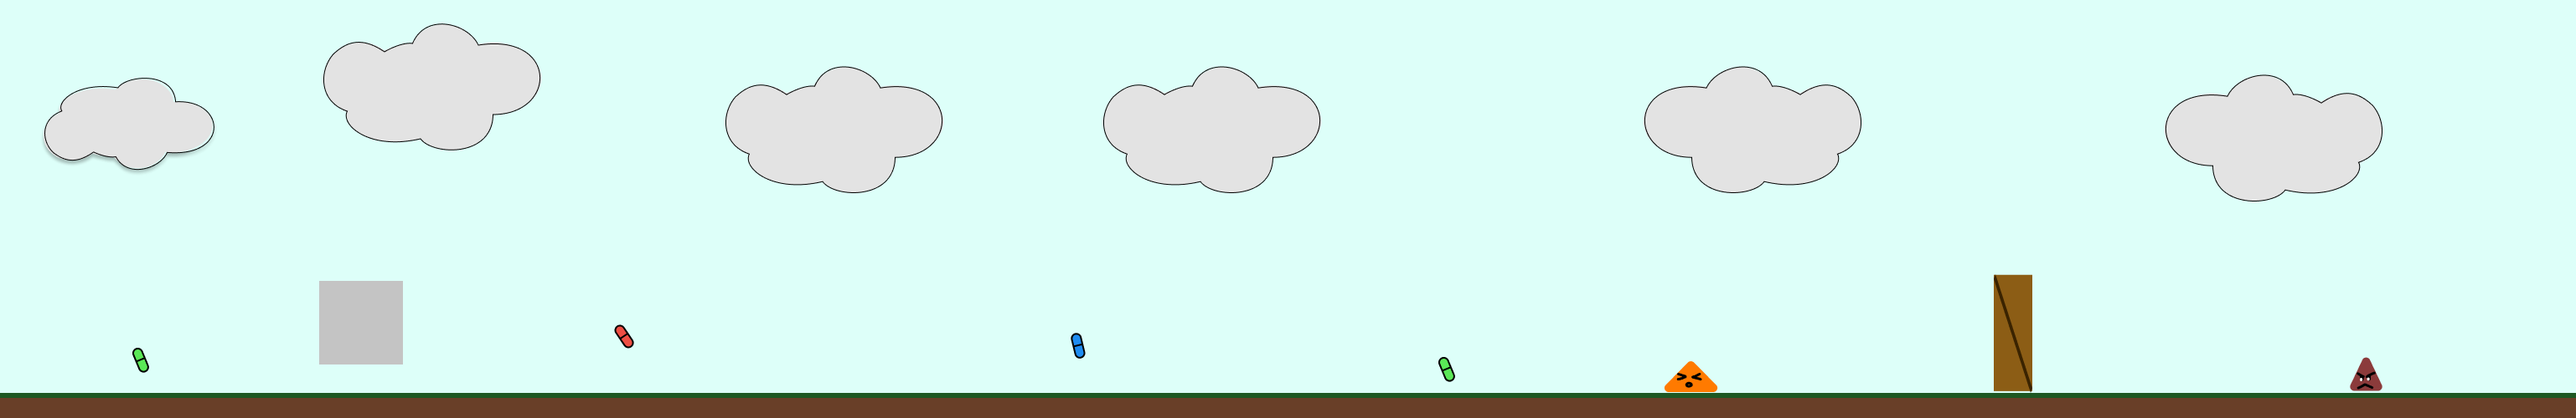
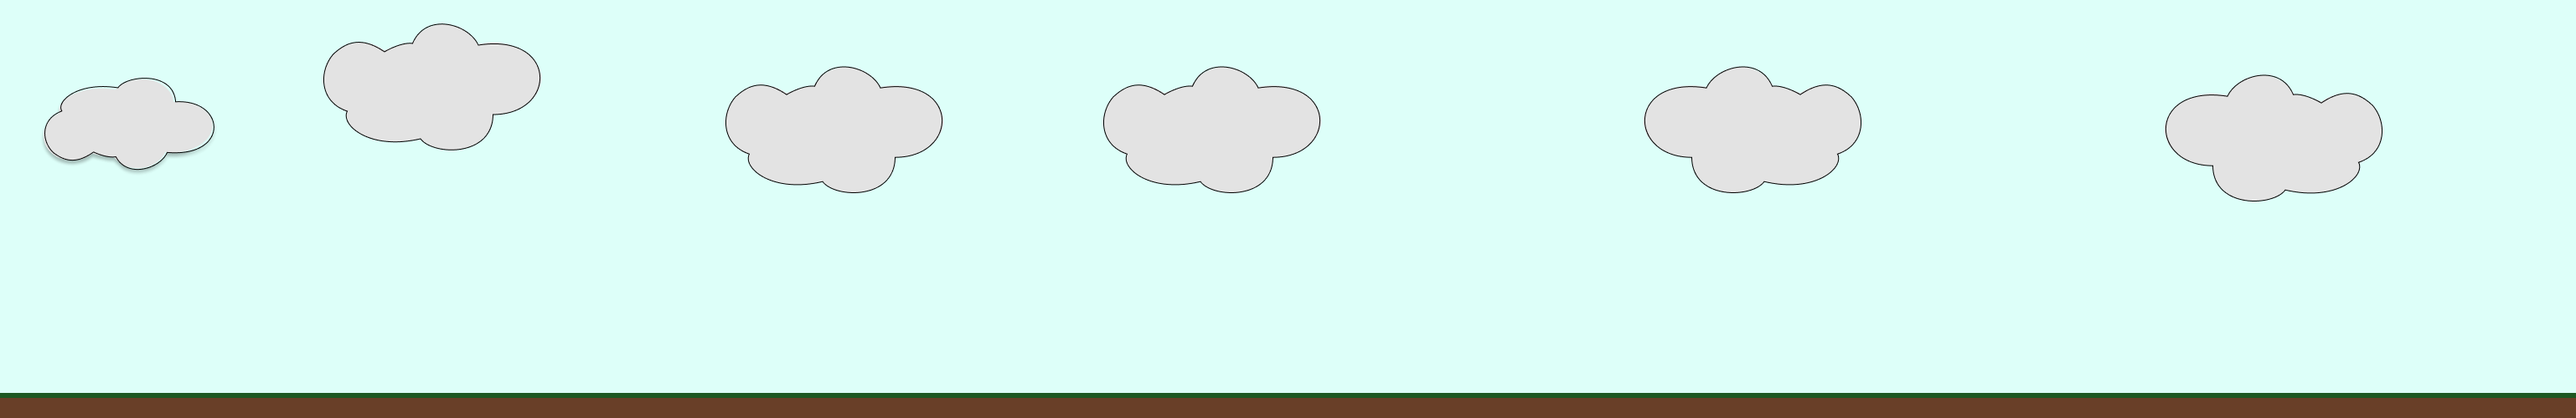
Pondo movimento nos inimigos

diff --git a/prototipo/main.py b/prototipo/main.py
@@ -21,25 +21,25 @@ pygame.display.set_caption("√ Variável")
 jogador = Jogador()
 camera = Camera(jogador)
 caixas = [
-    Caixa(50, 50, 550, 470, 2),
-    Caixa(200, 60, 1150, 470, 500)
+    # Caixa(50, 50, 550, 470, 2),
+    # Caixa(200, 60, 1150, 470, 500)
 ]
 
 inimigos = [
-    InimigoVermelho(10, 470),
-    InimigoLaranja(500, 470)
+    InimigoVermelho(600, 470),
+    InimigoLaranja(100, 470)
 ]
 
 pilulas = [
-    Pilula('blue', -10, False, 500, 450),
-    Pilula('green', -10, True, 600, 450),
-    Pilula('red', 10, False, 700, 450),
-    Pilula('blue', -10, False, 800, 450),
-    Pilula('red', 10, False, 900, 450),
-    Pilula('blue', -10, False, 1000, 450),
-    Pilula('red', 10, False, 1100, 450),
-    Pilula('blue', -10, False, 50, 450),
-    Pilula('green', 2, True, 3000, 450),
+    # Pilula('blue', -10, False, 500, 450),
+    # Pilula('green', -10, True, 600, 450),
+    # Pilula('red', 10, False, 700, 450),
+    # Pilula('blue', -10, False, 800, 450),
+    # Pilula('red', 10, False, 900, 450),
+    # Pilula('blue', -10, False, 1000, 450),
+    # Pilula('red', 10, False, 1100, 450),
+    # Pilula('blue', -10, False, 50, 450),
+    # Pilula('green', 2, True, 3000, 450),
 ]
 
 pilula_grupo = pygame.sprite.Group()
@@ -69,6 +69,8 @@ while running:
 
     jogador.update(camera.offset.x, caixa_grupo)
     camera.scroll()
+    for inimigo in inimigo_grupo:
+        inimigo.andar()
 
     if pygame.sprite.spritecollide(jogador, pilula_grupo, False):
         jogador.toma_pilula(pilula_grupo)

diff --git a/prototipo/inimigoVermelho.py b/prototipo/inimigoVermelho.py
@@ -2,10 +2,21 @@ import pygame
 from inimigo import Inimigo
 
 class InimigoVermelho(Inimigo):
-    def __init__(self, x, y, pulo = -10, cor = "Red", velocidade = 2, largura = 70, altura = 50):
-        super().__init__(cor, velocidade, largura, altura, x, y)
+    def __init__(self, x, y, distancia_maxima = 200, pulo = -10, cor = "Red", velocidade = 2, largura = 70, altura = 50):
+        super().__init__(cor, velocidade, largura, altura, x, y, distancia_maxima)
         self.pulo = pulo
 
     def andar(self):
-        pass
+        self.pulo += 1
+        if self.pulo > 10:
+            self.pulo = 10
+        self.rect.y += self.pulo
+        if self.rect.y >= self.y - self.altura:
+            self.pulo = -10
+            self.rect.y = self.y - self.altura
+        self.rect.x += self.velocidade
+        self.distancia += self.velocidade
+        if abs(self.distancia) > self.distancia_maxima:
+            self.velocidade *= -1
+            self.distancia = 0
 

diff --git a/prototipo/inimigo.py b/prototipo/inimigo.py
@@ -2,18 +2,20 @@ import pygame
 from abc import ABC, abstractmethod
 
 class Inimigo(ABC, pygame.sprite.Sprite):
-    def __init__(self, cor, velocidade, largura, altura, x, y):
+    def __init__(self, cor, velocidade, largura, altura, x, y, distancia_maxima):
         pygame.sprite.Sprite.__init__(self)
         self.cor = cor
         self.velocidade = velocidade
         self.largura = largura
         self.altura = altura
+        self.distancia_maxima = distancia_maxima
         self.x = x
         self.y = y
         self.superficie = pygame.Surface((self.largura, self.altura))
         self.superficie.fill(self.cor)
         self.rect = self.superficie.get_rect(bottomleft = (self.x, self.y))
         self.image = self.superficie
+        self.distancia = 0
 
     @abstractmethod
     def andar(self):

diff --git a/prototipo/inimigoLaranja.py b/prototipo/inimigoLaranja.py
@@ -2,8 +2,12 @@ import pygame
 from inimigo import Inimigo
 
 class InimigoLaranja(Inimigo):
-    def __init__(self, x, y, cor = "Orange", velocidade = 7, largura = 30, altura = 70):
-        super().__init__(cor, velocidade, largura, altura, x, y)
+    def __init__(self, x, y, distancia_maxima = 100, cor = "Orange", velocidade = 7, largura = 30, altura = 70):
+        super().__init__(cor, velocidade, largura, altura, x, y, distancia_maxima)
 
     def andar(self):
-        pass
+        self.rect.x += self.velocidade
+        self.distancia += self.velocidade
+        if abs(self.distancia) > self.distancia_maxima:
+            self.velocidade *= -1
+            self.distancia = 0
